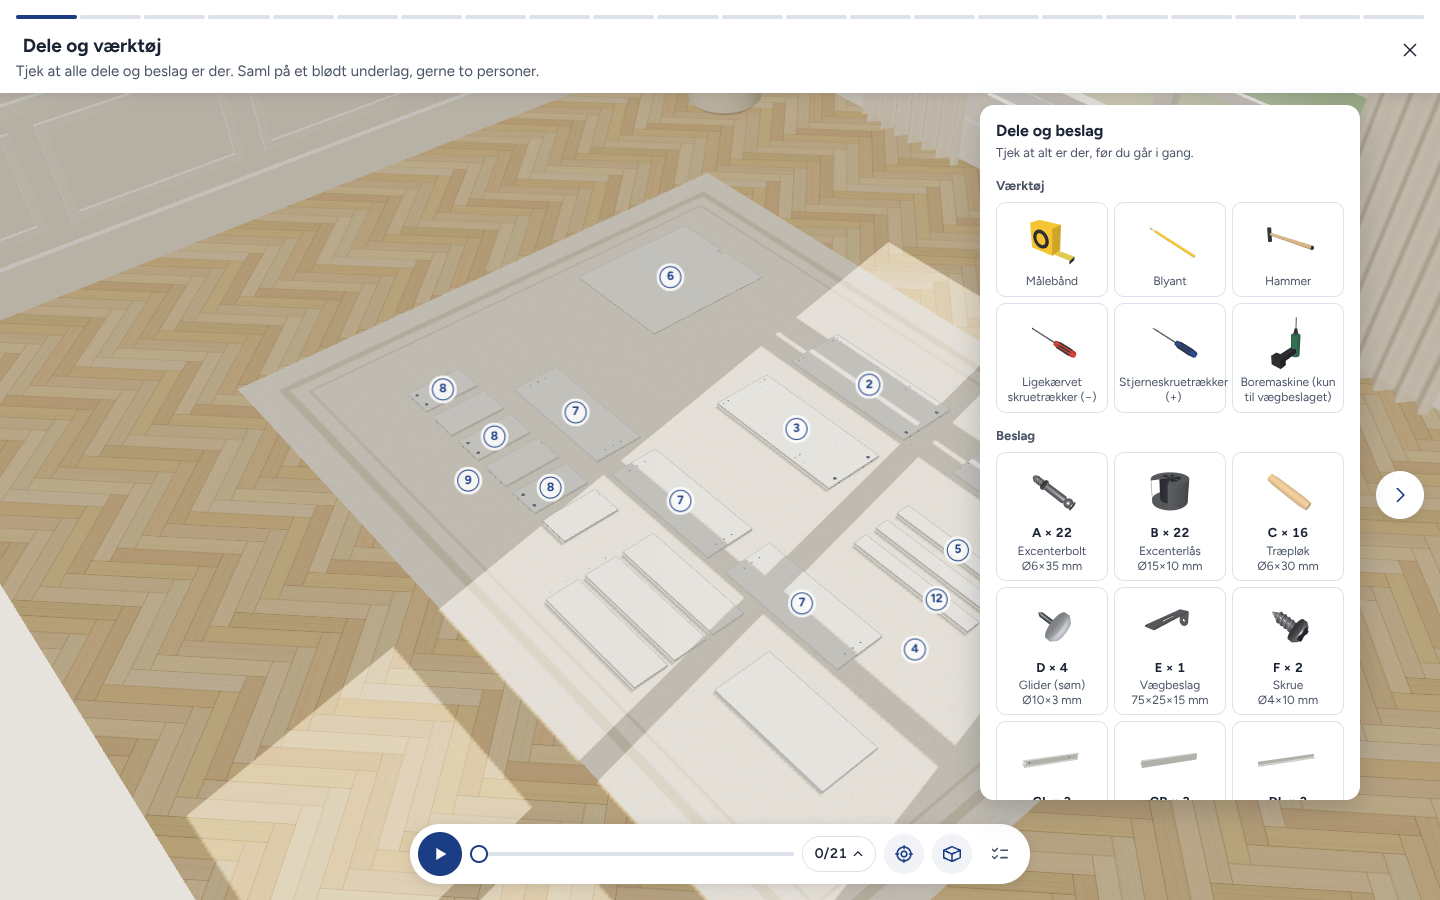
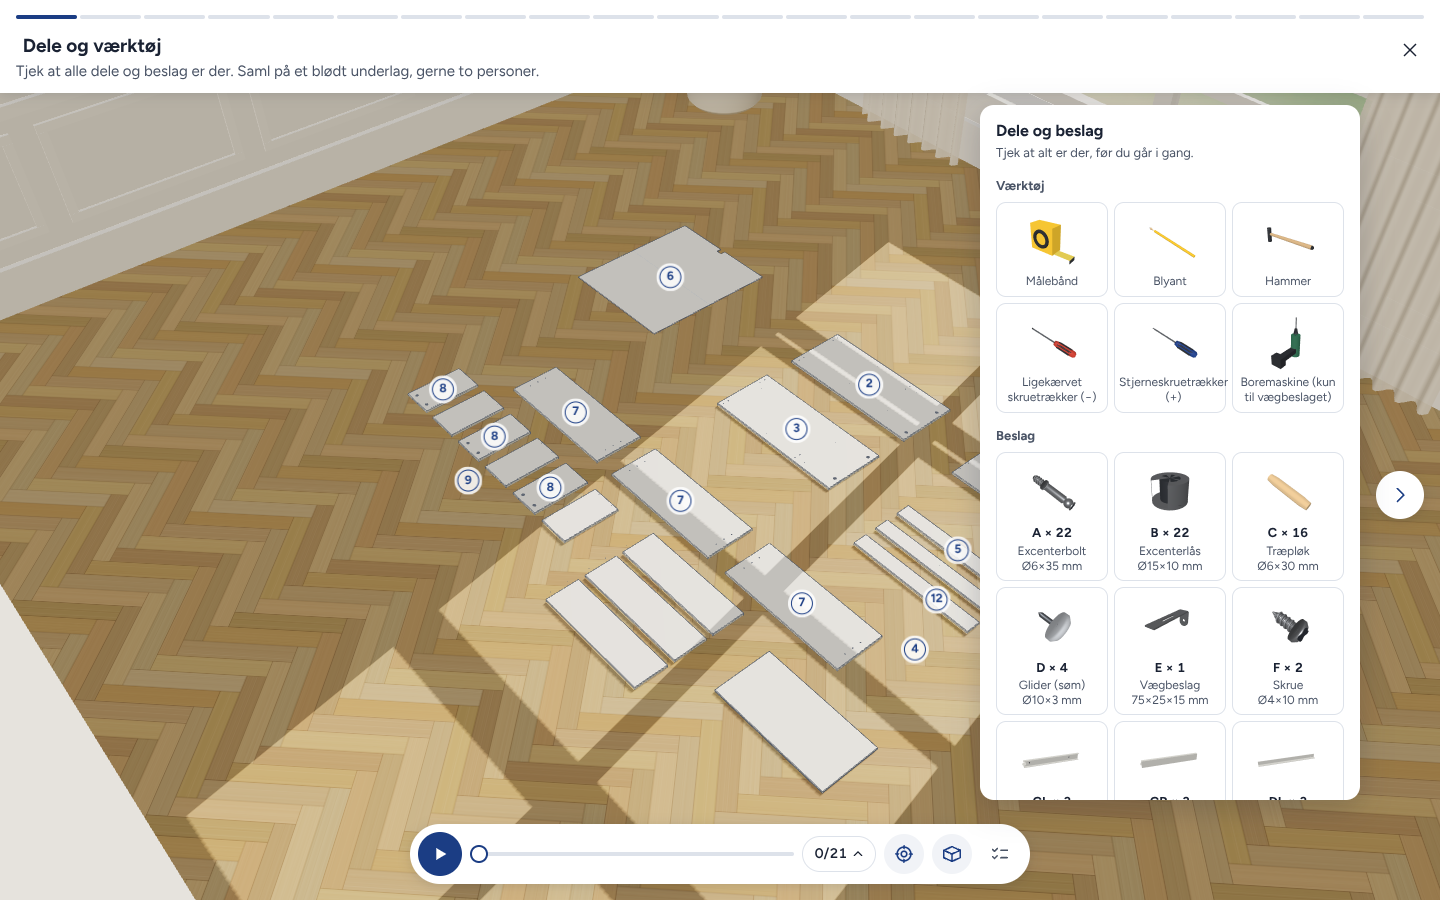
KORUP: Find frem-intro, langsommere animationer, mere kontrast, intet tæppe
Claude-Session: https://claude.ai/code/session_01QvWVBEYxguDYtm3QpDPuf6

diff --git a/engine/player.js b/engine/player.js
@@ -31,10 +31,10 @@ export function createPlayer({ scene, camera, controls, model, manual }) {
 
   // ---------- materials ----------
   const melamine = new THREE.MeshStandardMaterial({ color: '#f3f3f0', roughness: 0.55 });
-  const edge = new THREE.MeshStandardMaterial({ color: '#e2e2dd', roughness: 0.7 });
+  const edge = new THREE.MeshStandardMaterial({ color: '#cfd0ca', roughness: 0.7 });
   const hardboard = new THREE.MeshStandardMaterial({ color: '#b08a60', roughness: 0.9 });
   const holeMat = new THREE.MeshBasicMaterial({ color: '#5d626b', polygonOffset: true, polygonOffsetFactor: -2 });
-  const lineMat = new THREE.LineBasicMaterial({ color: '#8d939c', transparent: true, opacity: 0.55 });
+  const lineMat = new THREE.LineBasicMaterial({ color: '#4f5661', transparent: true, opacity: 0.85 });
   const cast = o => { o.traverse(m => { if (m.isMesh) { m.castShadow = true; m.receiveShadow = true; } }); return o; };
 
   // ---------- groups (only hold group-hosted hardware) ----------
@@ -82,7 +82,7 @@ export function createPlayer({ scene, camera, controls, model, manual }) {
     // host-local position: for panels subtract the panel centre (panel axes = group axes)
     h.p = host ? h.gp.clone().sub(host.center) : h.gp.clone();
     h.d = h.gd.clone();
-    const holder = new THREE.Group();
+    const holder = new THREE.Group(); holder.userData.hw = true;
     const m = proto(h.type).clone(); holder.add(m);
     if (h.type === 'C') m.position.y = (h.depth ?? 15) - 15;      // dowel: depth into host, rest sticks out
     (host ? host.obj : hostGroup ? hostGroup.obj : scene).add(holder);
@@ -130,20 +130,32 @@ export function createPlayer({ scene, camera, controls, model, manual }) {
   }
 
   // ---------- timeline ----------
-  const TIMES = { insertTool: 1.15, insertHand: 0.55, hammer: 1.0, cam: 0.9, place: 0.9, move: 2.6, group: 2.4, measure: 2.2, mark: 1.6, drill: 2.4, tighten: 0.9 };
+  // slow enough to follow: every motion ×1.6, a short pause between actions, and an intro that shows what to find
+  const SLOW = 1.6, GAP = 0.45, INTRO = 3.8;
+  const TIMES = Object.fromEntries(Object.entries({ insertTool: 1.15, insertHand: 0.55, hammer: 1.0, cam: 0.9, place: 0.9, move: 2.6, group: 2.4, measure: 2.2, mark: 1.6, drill: 2.4, tighten: 0.9 }).map(([k, v]) => [k, v * SLOW]));
   for (const st of steps) {
-    let t = 0;
+    let t = st.actions.length ? INTRO : 0;
+    st.intro = t;
     for (const a of st.actions) {
       const n = a.items ? a.items.length : a.lanes ? Math.max(...a.lanes.map(l => l.length)) : 1;
       let per = a.per;
       if (!per) per = a.type === 'insert' ? (a.tool === 'hammer' ? TIMES.hammer : a.tool ? TIMES.insertTool : TIMES.insertHand)
         : a.type === 'cam' ? TIMES.cam : a.type === 'place' ? TIMES.place : a.type === 'tighten' ? TIMES.tighten : 0;
+      else per *= SLOW;
       a.per = per; a.n = n;
-      a.dur = a.dur || (per ? (a.tool || a.type === 'cam' || a.type === 'tighten' ? per * n : per + 0.18 * (n - 1)) : TIMES[a.type] || 2);
-      a.stagger = a.tool || a.type === 'cam' || a.type === 'tighten' ? per : 0.18;
-      a.t0 = t; t += a.dur; a.t1 = t;
+      const seqItems = a.tool || a.type === 'cam' || a.type === 'tighten';
+      a.dur = a.dur ? a.dur * SLOW : (per ? (seqItems ? per * n : per + 0.3 * (n - 1)) : TIMES[a.type] || 2 * SLOW);
+      a.stagger = seqItems ? per : 0.3;
+      a.t0 = t; t += a.dur; a.t1 = t; t += GAP;
     }
     st.dur = Math.max(1.5, t);
+    // what to fetch: panels that move in this step and the panels that receive hardware
+    const find = new Set();
+    for (const a of st.actions) {
+      if (a.type === 'move') (a.lanes ? a.lanes.flat() : a.parts).forEach(id => find.add(id));
+      if (a.type !== 'move') for (const id of a.items || (a.lanes ? a.lanes.flat() : [])) { const h = H[id]; if (h && P[h.host]) find.add(h.host); }
+    }
+    st.find = find.size ? [...find] : st.focus.slice();
   }
 
   // ---------- state evaluation ----------
@@ -284,6 +296,50 @@ export function createPlayer({ scene, camera, controls, model, manual }) {
     a._mark.visible = true;
   }
 
+  // ---------- intro: enlarged samples of the hardware and tools to find ----------
+  const samples = {};
+  function sample(kind, type) {
+    const key = kind + type;
+    if (samples[key]) return samples[key];
+    const g = new THREE.Group(), m = kind === 'hw' ? makeHardware(type) : makeTool(type);
+    if (kind === 'tool' && type === 'tape') m.userData.setLength(30);
+    const inner = new THREE.Group(); inner.add(m);
+    if (kind === 'hw' && HW[type]) inner.rotation.x = Math.PI;            // screws stand head up
+    if (kind === 'tool') inner.rotation.z = Math.PI / 2;                   // tools lie across
+    const b = new THREE.Box3().setFromObject(inner), size = b.getSize(new THREE.Vector3()).length();
+    const target = kind === 'tool' ? 210 : 140;
+    inner.scale.setScalar(Math.min(4, Math.max(0.35, target / size)));
+    const c = new THREE.Box3().setFromObject(inner).getCenter(new THREE.Vector3()); inner.position.sub(c);
+    g.add(inner);
+    const label = makeLabel(''); label.scale.set(230, 50, 1); g.add(label); g.userData.label = label;
+    g.visible = false; scene.add(g);
+    return (samples[key] = g);
+  }
+  let introState = null;
+  function poseIntro(si, t) {
+    Object.values(samples).forEach(o => o.visible = false);
+    introState = null;
+    const st = steps[si];
+    if (!st.intro || t >= st.intro) return;
+    const list = Object.entries(st.uses).map(([type, n]) => ({ kind: 'hw', type, text: `${type} × ${n}` }))
+      .concat(st.tools.map(type => ({ kind: 'tool', type, text: TOOL_NAMES[type] })));
+    const b = partsBox(st.find), c = b.getCenter(new THREE.Vector3()), size = b.getSize(new THREE.Vector3());
+    const right = new THREE.Vector3().setFromMatrixColumn(camera.matrixWorld, 0); right.y = 0; right.normalize();
+    const grow = Math.min(1, t / 0.6) * Math.min(1, (st.intro - t) / 0.5);
+    const gap = 250, y0 = b.max.y + 400;
+    list.forEach((L, i) => {
+      const o = sample(L.kind, L.type);
+      o.visible = grow > 0.02;
+      o.position.copy(c).addScaledVector(right, (i - (list.length - 1) / 2) * gap); o.position.y = y0;
+      o.children[0].rotation.y = t * 0.9;
+      o.scale.setScalar(Math.max(0.01, ease(grow)));
+      o.userData.label.userData.set(L.text); o.userData.label.position.set(0, -115, 0);
+    });
+    introState = { box: b.clone().expandByPoint(c.clone().setY(y0 + 80)).expandByPoint(c.clone().addScaledVector(right, (list.length / 2) * gap).setY(y0)).expandByPoint(c.clone().addScaledVector(right, -(list.length / 2) * gap).setY(y0)), find: st.find };
+    focus = { kind: 'intro' };
+  }
+  const TOOL_NAMES = { phillips: 'Stjerneskruetrækker', flat: 'Ligekærvet', hammer: 'Hammer', tape: 'Målebånd', pencil: 'Blyant', drill: 'Boremaskine' };
+
   function evaluate(si, p) {
     reset(); toolUse = null; focus = null;
     for (let s = 0; s <= si; s++) {
@@ -296,6 +352,7 @@ export function createPlayer({ scene, camera, controls, model, manual }) {
     }
     commit();
     poseTools();
+    poseIntro(si, p * steps[si].dur);
     stepLabels.forEach(l => l.visible = false);
     (steps[si].labels || []).forEach((L, i) => {
       if (!stepLabels[i]) { stepLabels[i] = makeLabel(L.text); stepLabels[i].scale.set(240, 52, 1); scene.add(stepLabels[i]); }
@@ -412,6 +469,7 @@ export function createPlayer({ scene, camera, controls, model, manual }) {
       return { target: c.addScaledVector(d, -70), radius: r, dir };
     }
     let b;
+    if (focus?.kind === 'intro' && introState) { const ib = introState.box, c = ib.getCenter(new THREE.Vector3()); return { target: c, radius: Math.max(260, ib.getSize(new THREE.Vector3()).length() / 2 * 1.05), dir: defDir }; }
     if (focus?.kind === 'items') { b = new THREE.Box3(); for (const id of focus.ids) b.expandByObject(H[id].obj); b.expandByScalar(60); }
     else if (focus?.kind === 'parts') b = partsBox(focus.extra || focus.ids);
     else if (focus?.kind === 'groups') b = partsBox(parts.filter(p => focus.ids.includes(p.group)).map(p => p.id));
@@ -421,17 +479,45 @@ export function createPlayer({ scene, camera, controls, model, manual }) {
     return { target: c, radius: Math.max(140, r * (focus ? 1 : 1.25)), dir: defDir };
   }
 
-  // see-through panels, so work hidden behind a panel (e.g. the wall bracket) stays visible
-  const xrayMats = new Map();
-  function setXray(gid, alpha) {
-    for (const p of parts) if (p.group === gid) p.obj.traverse(o => {
-      if (!o.isMesh) return;
-      if (!o.userData.base) o.userData.base = o.material;
-      if (alpha >= 1) { o.material = o.userData.base; return; }
-      const base = o.userData.base, list = Array.isArray(base) ? base : [base];
-      const xs = list.map(m => { if (!xrayMats.has(m)) { const c = m.clone(); c.transparent = true; c.depthWrite = false; xrayMats.set(m, c); } const c = xrayMats.get(m); c.opacity = alpha; return c; });
-      o.material = Array.isArray(base) ? xs : xs[0];
-    });
+  // looks: inactive panels are ghosted, panels to find glow during the intro, and the carcass can turn see-through
+  const looks = { ghost: new Map(), hi: new Map() };
+  const hiColor = new THREE.Color('#1b3d84');
+  function lookOf(base, mode) {
+    if (mode === 'hi' && !base.isMeshStandardMaterial) return base;
+    const cache = looks[mode];
+    if (!cache.has(base)) {
+      const c = base.clone();
+      if (mode === 'ghost') { c.transparent = true; c.opacity = 0.28; c.depthWrite = false; }
+      else { c.emissive = hiColor.clone(); c.emissiveIntensity = 0.3; }
+      cache.set(base, c);
+    }
+    return cache.get(base);
   }
-  return { evaluate, cameraGoal, steps, P, H, G, partsBox, tools, setXray, focusKind: () => focus?.kind };
+  function setLook(p, mode) {
+    if (p._look === mode) return; p._look = mode;
+    // only the panel itself (hardware fastened to it keeps its own look)
+    for (const o of p.obj.children) {
+      if (o.userData.hw || (!o.isMesh && !o.isLineSegments)) continue;
+      if (!o.userData.base) o.userData.base = o.material;
+      const base = o.userData.base;
+      if (o.isLineSegments) { o.visible = mode !== 'ghost'; continue; }
+      o.material = mode === 'normal' ? base : Array.isArray(base) ? base.map(m => lookOf(m, mode)) : lookOf(base, mode);
+    }
+  }
+  function applyLooks(si, p, time) {
+    const st = steps[si], t = p * st.dur;
+    const active = new Set([...st.focus, ...st.find]);
+    const groupsActive = new Set([...active].map(id => P[id]?.group));
+    const xray = st.xray && (focus?.kind === 'item' || focus?.kind === 'point');
+    const intro = st.intro && t < st.intro;
+    for (const p of parts) {
+      let mode = 'normal';
+      if (si > 0 && !active.has(p.id) && !(p.state.mode === 'group' && groupsActive.has(p.group))) mode = 'ghost';
+      if (xray && p.group === 'carcass') mode = 'ghost';
+      if (intro && st.find.includes(p.id)) mode = 'hi';
+      setLook(p, mode);
+    }
+    looks.hi.forEach(m => m.emissiveIntensity = 0.18 + 0.14 * Math.sin(time * 5));
+  }
+  return { evaluate, cameraGoal, steps, P, H, G, partsBox, tools, applyLooks, focusKind: () => focus?.kind, inIntro: (si, p) => steps[si].intro && p * steps[si].dur < steps[si].intro };
 }

diff --git a/korup/index.html b/korup/index.html
@@ -46,6 +46,9 @@
   #uses[hidden] { display: none; }
   .chip { flex: none; display: flex; align-items: center; gap: 6px; height: 36px; padding: 2px 10px 2px 3px; border: 1px solid var(--line); border-radius: 8px; background: var(--paper); font-size: 13px; font-weight: 600; white-space: nowrap; font-variant-numeric: tabular-nums; }
   .chip img { width: 30px; height: 30px; border-radius: 6px; background: var(--mist); }
+  #uses::before { content: "Du skal bruge"; flex: none; align-self: center; font-size: 12px; font-weight: 600; color: var(--ink-2); margin-right: 2px; }
+  #uses.find::before { content: "Find frem"; color: var(--navy); }
+  #uses.find .chip { border-color: var(--navy); box-shadow: 0 0 0 2px rgba(27, 61, 132, .15); }
   .chip.tl { padding-right: 8px; font-weight: 500; color: var(--ink-2); }
   .chip b { color: var(--navy); }
   #close { flex: none; width: 44px; height: 44px; margin: -6px -8px 0 0; display: grid; place-items: center; border: 0; border-radius: 50%; background: none; cursor: pointer; color: var(--ink); }
@@ -214,7 +217,7 @@ const camera = new THREE.PerspectiveCamera(38, 1, 5, 30000);
 camera.position.set(1600, 2300, 3400);
 const controls = new OrbitControls(camera, renderer.domElement);
 controls.target.set(0, 200, 200); controls.maxPolarAngle = Math.PI / 2 - 0.02; controls.minDistance = 150; controls.maxDistance = 9000;
-const room = buildRoom(THREE, scene, renderer, { rug: { w: 3600, d: 2700, x: 0, z: 300 }, plantAt: [-2350, 0, -1650] });
+const room = buildRoom(THREE, scene, renderer, { rug: false, floorLight: 54, floorSat: 26, plantAt: [-2350, 0, -1650] });
 const player = createPlayer({ scene, camera, controls, model, manual });
 const steps = player.steps;
 
@@ -278,15 +281,16 @@ function updateCallouts() {
   const st = steps[step], list = [];
   // panels involved in the step: numbers on the panels; the moving/hosting ones as a full tag
   const seen = new Set();
-  for (const id of st.noPartTags ? [] : st.focus) {
+  const intro = player.inIntro(step, prog);
+  for (const id of st.noPartTags ? [] : intro ? st.find : st.focus) {
     const p = player.P[id]; if (!p) continue;
     const key = p.num; if (step !== 0 && seen.has(key)) continue; seen.add(key);
     _b.setFromObject(p.obj.children[0]); const c = _b.getCenter(new THREE.Vector3()); c.y = _b.max.y;
-    const qty = st.overview ? 1 : st.focus.filter(f => player.P[f]?.num === p.num).length;
-    list.push({ at: c, num: p.num, name: p.name.replace(/ (venstre|højre)$/, ''), qty, small: step === 0 || st.focus.length > 6 });
+    const qty = st.overview ? 1 : (intro ? st.find : st.focus).filter(f => player.P[f]?.num === p.num).length;
+    list.push({ at: c, num: p.num, name: p.name.replace(/ (venstre|højre)$/, ''), qty, small: !intro && (step === 0 || st.focus.length > 6) });
   }
   // hardware types used in the step: one tag on the first visible item
-  for (const [type, qty] of Object.entries(st.uses)) {
+  for (const [type, qty] of intro ? [] : Object.entries(st.uses)) {
     const h = model.hardware.find(x => x.type === type && player.H[x.id].obj.visible && stepHas(st, x.id));
     if (!h) continue;
     player.H[h.id].obj.getWorldPosition(_v);
@@ -443,7 +447,8 @@ function frame(now) {
     if (prog >= 1) { playing = false; renderUI(); renderChecks(); }
   }
   player.evaluate(step, prog);
-  player.setXray('carcass', steps[step].xray && ['item', 'point'].includes(player.focusKind()) ? 0.28 : 1);
+  player.applyLooks(step, prog, now / 1000);
+  $('uses').classList.toggle('find', !!player.inIntro(step, prog));
   driveCamera(dt);
   room.update(camera);
   renderer.render(scene, camera);
@@ -461,7 +466,7 @@ window.guide = {
   set(i, p, settle = true) {
     go(i, false); prog = p; playing = false; renderUI();
     player.evaluate(step, prog);
-    player.setXray('carcass', steps[step].xray && ['item', 'point'].includes(player.focusKind()) ? 0.28 : 1);
+    player.applyLooks(step, prog, 0);
     if (settle) { for (let k = 0; k < 120; k++) driveCamera(0.05); }
     room.update(camera); renderer.render(scene, camera); updateCallouts(); renderChecks();
     return [...liveChecks(), ...model.checks].filter(c => !c.pass).map(c => `${c.name}: ${c.val}`);

diff --git a/room.js b/room.js
@@ -13,14 +13,14 @@ export const ROOM = {
 function rng(seed) { return () => ((seed = (seed * 16807) % 2147483647) / 2147483647); }
 
 // ---------- textures ----------
-function herringboneTexture(THREE, renderer) {
+function herringboneTexture(THREE, renderer, light = 70, satBase = 42) {
   const W = 70, L = 420, TILE = 12 * W;           // 70 × 420 mm planks; pattern repeats every 840 mm
   const px = 2048, s = px / TILE;
   const c = document.createElement('canvas'); c.width = c.height = px;
   const g = c.getContext('2d');
   const shades = Array.from({ length: 24 }, (_, i) => {
     const r = rng(i * 97 + 13); r();
-    const l = 70 + r() * 9, h = 34 + r() * 6, sat = 42 + r() * 12;
+    const l = light + r() * 9, h = 34 + r() * 6, sat = satBase + r() * 12;
     return { base: `hsl(${h} ${sat}% ${l}%)`, seed: i * 31 + 7 };
   });
   function plank(x, y, w, h, id) {
@@ -111,7 +111,7 @@ export function buildRoom(THREE, scene, renderer, opts = {}) {
   const box = (w, h, d, m, x, y, z) => { const o = shadowed(new THREE.Mesh(new THREE.BoxGeometry(w, h, d), m)); o.position.set(x, y, z); return o; };
 
   // floor: herringbone, laid at 45° to the walls
-  const hb = herringboneTexture(THREE, renderer);
+  const hb = herringboneTexture(THREE, renderer, opts.floorLight ?? 70, opts.floorSat ?? 42);
   const floorGeo = new THREE.PlaneGeometry(W, D); floorGeo.rotateX(-Math.PI / 2);
   floorGeo.translate((R.x0 + R.x1) / 2, 0, (R.z0 + R.z1) / 2);
   const p = floorGeo.attributes.position, uv = floorGeo.attributes.uv, c45 = Math.SQRT1_2;
@@ -122,7 +122,7 @@ export function buildRoom(THREE, scene, renderer, opts = {}) {
   // rug under the work area (manual: assemble on a soft surface); 1 mm so parts still stand at y = 0
   const rg = { w: 2200, d: 1550, x: -250, z: 150, ...(opts.rug || {}) };
   const rug = new THREE.Mesh(new THREE.PlaneGeometry(rg.w, rg.d).rotateX(-Math.PI / 2), new THREE.MeshStandardMaterial({ map: rugTexture(THREE), roughness: 1 }));
-  rug.position.set(rg.x, 1, rg.z); rug.receiveShadow = true; root.add(rug);
+  rug.position.set(rg.x, 1, rg.z); rug.receiveShadow = true; if (opts.rug !== false) root.add(rug);
 
   // ---- walls: each in local coords, x along the wall, y up, +z into the room ----
   const walls = [];
